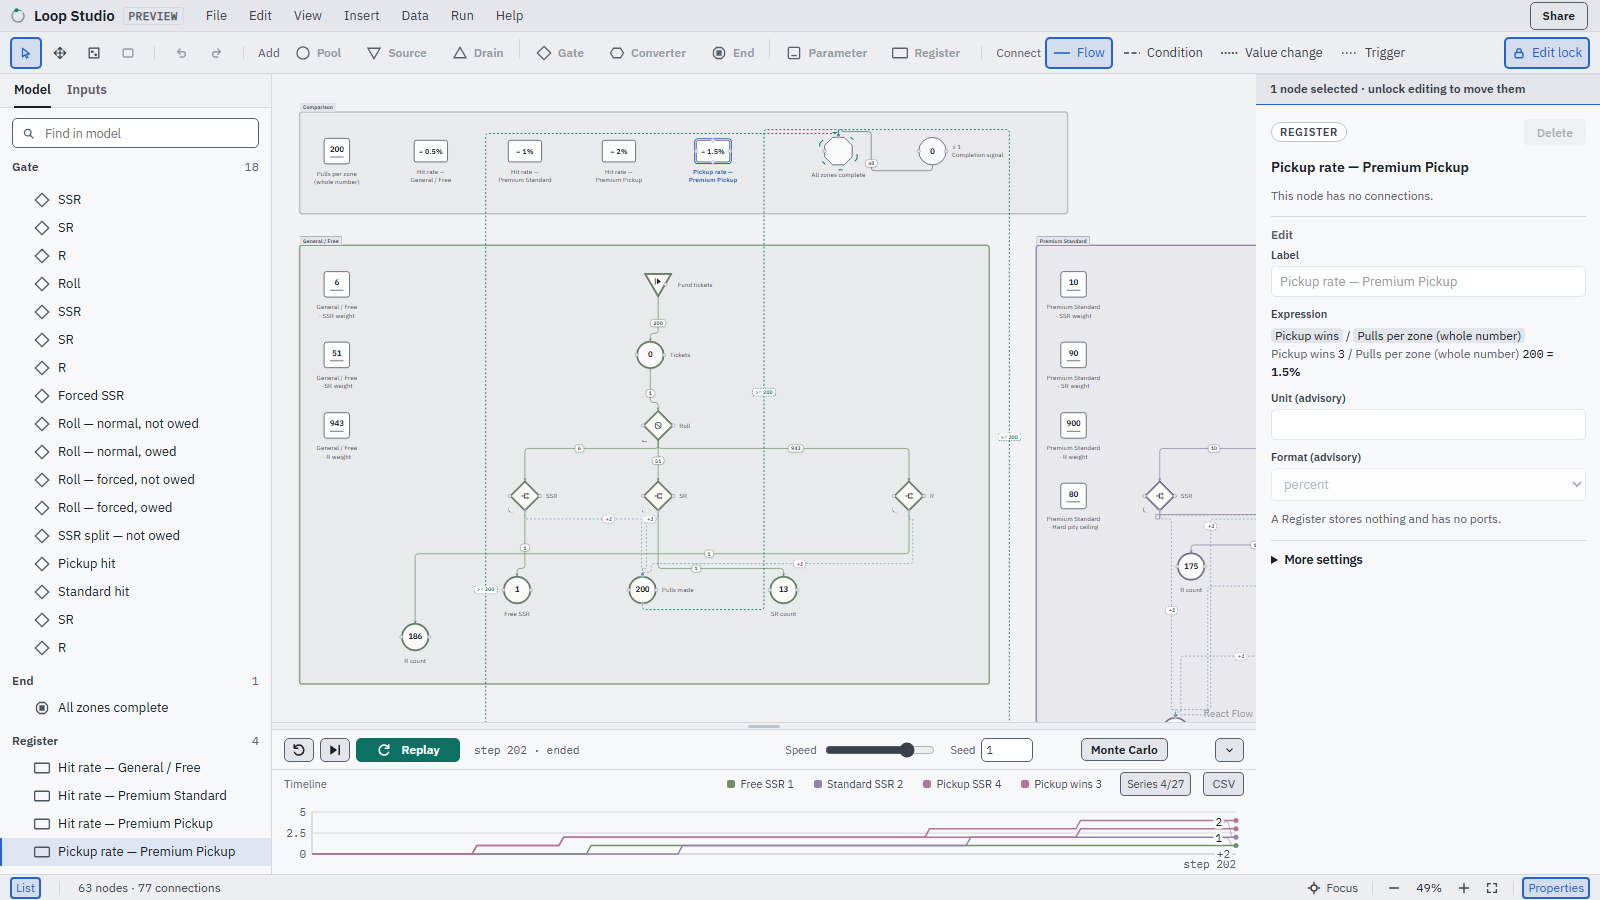
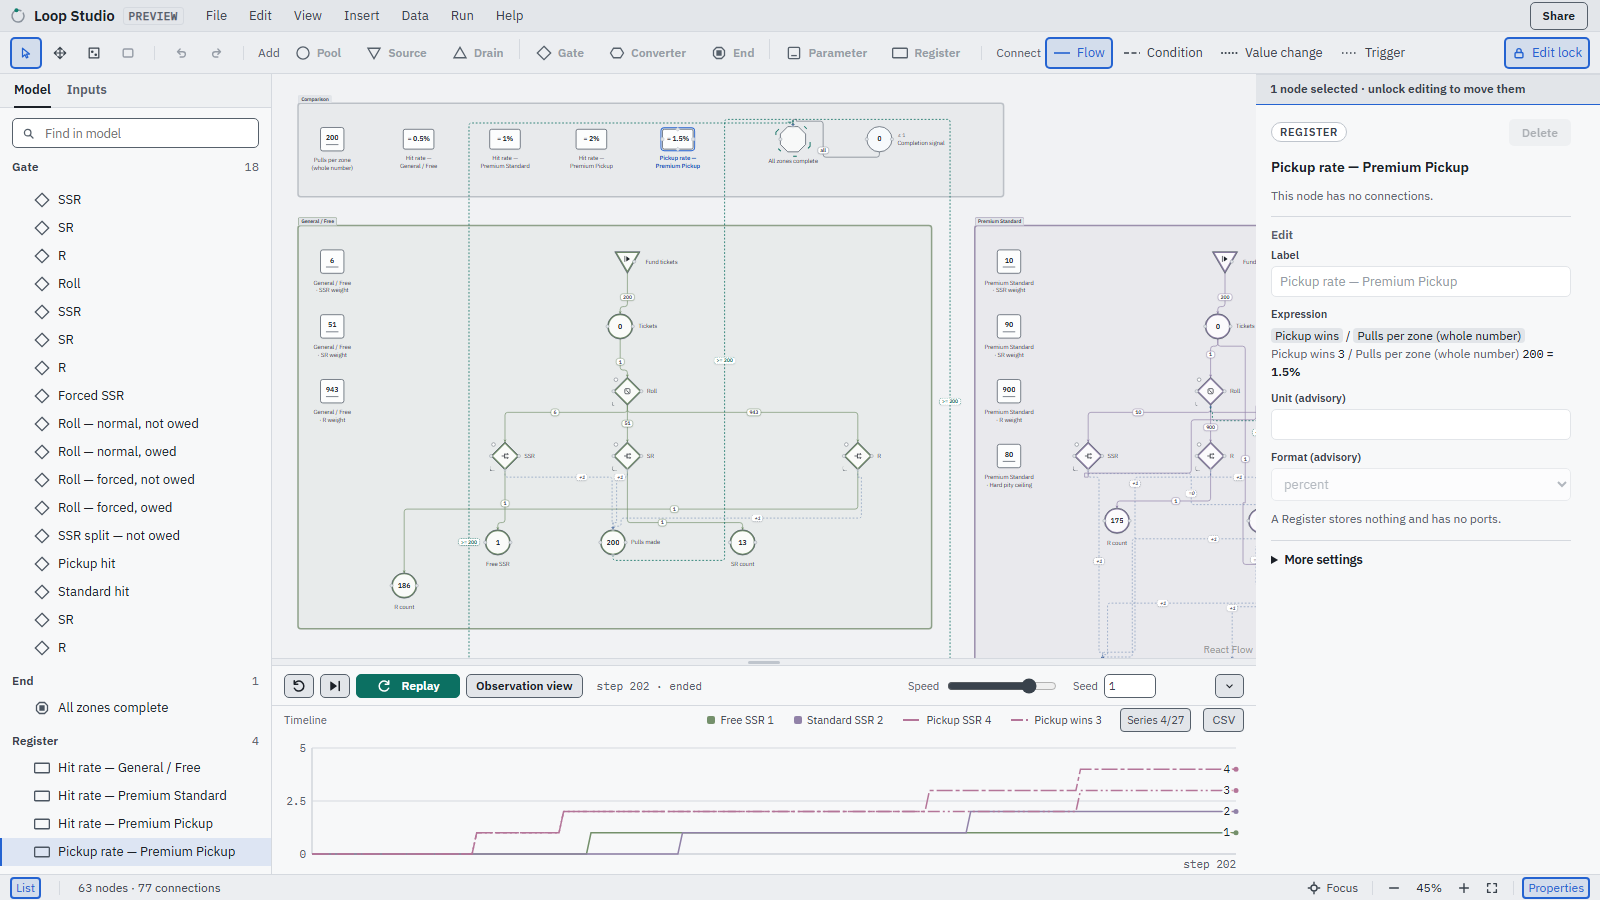
Release v0.32.0
Raises the app version to 0.32.0 and moves the Unreleased CHANGELOG lines into the v0.32.0 section, with a summary of the release. The README leads with v0.32.0, keeps v0.31.0, v0.30.1 and v0.30.0, and folds v0.29.0 into the CHANGELOG sentence; its key features name kinds, units, timetables and run rules. Its Template list now matches the menu: seven Templates, the desalination plant, the coffee roastery and, under Games, the MMO and the gacha examples, in place of eight with two small production flows that left the menu. The three README screenshots are retaken on a production build of this branch, so they show the Observation view button and the Timeline at its one height, and their descriptions say so.

diff --git a/README.md b/README.md
@@ -15,12 +15,12 @@ session neither reads nor saves stored work, author information or settings
 ([docs/storage-sessions.md](docs/storage-sessions.md)).
 
 **Run it now: <https://cozy-loop-studio.pages.dev>** — available in
-[18 languages](#languages), with eight bundled Templates ranging from two
-small production flows and a coffee roastery's daily operations to an early MMO's
-levelling economy and gacha banners: three single-banner rule sets and a
-three-zone probability/pity comparison.
+[18 languages](#languages), with seven bundled Templates: a seawater
+desalination plant from intake to the city and the sea, a coffee roastery's daily
+operations, and, under Games, an early MMO's levelling economy and gacha banners:
+three single-banner rule sets and a three-zone probability/pity comparison.
 
-![Loop Studio's workbench in a temporary session: the menu bar with its Temporary session button at the far end, the tool row, the list of every node on the left, and the Coffee roastery Template as node symbols with each name below, grouped into three labelled zone frames with its money in $/day, a few steps into a run with the Timeline filling in below](docs/assets/hero-coffee.png)
+![Loop Studio's workbench in a temporary session: the menu bar with its Temporary session button at the far end, the tool row, the list of every node on the left, and the Coffee roastery Template as node symbols with each name below, grouped into three labelled zone frames with its money in $/day, three steps into a run: the run row with Play and its Observation view button, and the Timeline filling in below](docs/assets/hero-coffee.png)
 
 ## Key features
 
@@ -28,6 +28,9 @@ three-zone probability/pity comparison.
   resources move between them on a deterministic, discrete-step simulation;
   select a region of nodes from the rail and move them together, or place nodes
   in a named frame that moves with its contents
+- **Kinds, units, timetables and run rules** — name a document's resource
+  kinds and their units, say how long a step is, keep a kind balanced, drive a
+  connection from a timetable, and run a stage by a rule, all made on screen
 - **Seeded RNG + Monte Carlo** — probabilistic gates and flows, and
   many-run outcome distributions with percentile bands
 - **A small model language** — `parameter` / `register` nodes with a safe
@@ -87,8 +90,8 @@ language's review status, and describes how the language is chosen.
 
 ## Representative use cases
 
-The bundled Templates come from different fields — a small production flow, a
-coffee roastery's daily operations, and a game's probability rules — because
+The bundled Templates come from different fields — a desalination plant's water
+balance, a coffee roastery's daily operations, and a game's probability rules — because
 the model is about flows and states, not about one genre. The one with the most
 moving parts is a game example:
 
@@ -99,14 +102,14 @@ per zone under identical run settings. Once a run completes, its hit and
 pickup rates are easy to compare; run Monte Carlo analysis to inspect the
 distribution across many runs.
 
-![The gacha Template after a completed 200-pull-per-zone run, its comparison row above the zone frames side by side below it: five comparison cards reading real hit-rate/pickup-rate percentages, a Timeline with per-zone SSR/pickup curves, and a Register's expression read-back open in the right panel](docs/assets/gacha-overview.png)
+![The gacha Template after a completed 200-pull-per-zone run, its comparison row above the zone frames side by side below it: five comparison cards reading real hit-rate/pickup-rate percentages, the run row at its end with Replay and the Observation view button, a Timeline with per-zone SSR/pickup curves, and a Register's expression read-back open in the right panel](docs/assets/gacha-overview.png)
 
 *Premium Pickup, framed on its own* — the hard-pity counter forces the next
 roll's SSR once it hits the ceiling; whether that (or any ordinary) SSR lands
 as pickup or standard depends on the `Pickup owed` guarantee flag, which a
 miss sets and the next SSR consumes.
 
-![The Premium Pickup zone alone after the same completed run, with the Timeline and the node list folded away: the hard-pity counter against its ceiling, the Pickup-owed guarantee flag, a real Pickup/Standard hit split, and a selected Pool open in the right panel with its current amount](docs/assets/gacha-pickup-guarantee.png)
+![The Premium Pickup zone alone after the same completed run, with the Timeline and the node list folded away and only the run row left under the canvas: the hard-pity counter against its ceiling, the Pickup-owed guarantee flag, a real Pickup/Standard hit split, and a selected Pool open in the right panel with its current amount](docs/assets/gacha-pickup-guarantee.png)
 
 ## Develop locally
 
@@ -147,7 +150,26 @@ Additional feature-specific design documents (localization, mobile, module
 system, large-graph readability, simulation playback, edge routing, data
 import, …) live under [`docs/`](docs/).
 
-## Latest — v0.31.0
+## Latest — v0.32.0
+
+Timetables, run rules and units, shown in a seawater desalination process example, and a
+Timeline built for reading a run.
+
+- **Timetables and run rules**: a connection can follow a rate that changes over time, as a
+  plan or as what a supply can give, and a stage can be run by a rule; both are made on screen,
+  and the Timeline draws each under the chart, with a word at each line's end
+- **Resource kinds with units**: a document can name its kinds and their units, say how long
+  one step is, and keep a kind balanced; the Inspector, the Timeline and downloads read in the
+  units you chose
+- **The seawater desalination process**: a facility example from intake to the city and the
+  sea, checked over 90 days, with chemical refills and a pause when the plant first stops
+- **A Timeline for reading a run**: one height whatever it holds, strips in a tab of their own,
+  a step preview under the pointer, and one meaning for each line pattern
+- **An observation view**: hides the side panels and the tool row while a run plays
+- **Node icons**, a state light on every Gate, and the game examples under Templates ▸ Games
+- **The run engine no longer loses resources** between Gates, Converters and capped Pools
+
+## v0.31.0
 
 Eighteen languages again, and a round of workbench clarity.
 
@@ -188,24 +210,9 @@ The menus and the canvas, tidied.
 - **Check marks beside their names** in the View menu and Edit ▸ Edit lock
 - **No minimap**: Reset view and Fit show the whole diagram; panning and zooming are unchanged
 
-## v0.29.0
-
-The workbench release: the desktop editing screen is redesigned as a workbench
-([`docs/workbench.md`](docs/workbench.md)).
-
-- **The workbench**: a menu bar, a tool row, a searchable list of every node on the left, the
-  properties panel on the right (what the selection does in the model first, then its fields),
-  the run controls and timeline under the canvas, and a status bar; the list and the panel fold
-  at narrower widths
-- **Nodes as symbols**: each kind of node is a small symbol with its number inside and its name
-  below; your documents keep their positions, names, formulas and line routes
-- **New colours, light and dark**, and names that stay when you zoom all the way out
-- **Structures in the File menu**: save a selected structure to a file and insert such a file
-  as one undo step; the Insert module menu is gone
-- **Languages at this release**: English and Korean only — the other sixteen returned in
-  v0.31.0
-
-See [`CHANGELOG.md`](CHANGELOG.md) for the full notes of these releases, v0.28.4 (starting
+See [`CHANGELOG.md`](CHANGELOG.md) for the full notes of these releases, v0.29.0 (the
+workbench: a menu bar, a tool row, the node list and the properties panel around the canvas,
+and nodes as symbols; [`docs/workbench.md`](docs/workbench.md)), v0.28.4 (starting
 and finishing a connection responds faster), v0.28.3 (Undo and Redo leave nothing selected),
 v0.28.2 (resource connections on two sides of one port branch on their own), v0.28.1 (a
 connection's label keeps off the bend points you placed on it), v0.28.0 (a

diff --git a/CHANGELOG.md b/CHANGELOG.md
@@ -7,6 +7,10 @@ a release yet is under **Unreleased** ([`docs/release-notes.md`](docs/release-no
 
 ## Unreleased
 
+## v0.32.0 — 2026-11-11
+
+Timetables, run rules and resource kinds with their own units, shown in a new seawater desalination process example; a Timeline that keeps one height, shows its strips in a tab of their own and gives each line pattern one meaning; an observation view for watching a run; node icons; the game examples grouped under Templates ▸ Games; and a run engine that no longer loses resources between Gates and Converters.
+
 - **Each Timeline line pattern means one thing.** A run strip's target and what an available timetable offers are now drawn as round dots, at the same width as the run, so they no longer look like a Register's dashes or a dashed series; a Register keeps its dashes, and a dashed series only ever means several tanks that share one colour. Each strip line also carries a word at its end, "target" and "ran" or "available" and "moved", in a space right of the plot that no line crosses, and the two words stay apart when the lines meet. The chart above keeps the same right edge, so a step stands at the same place in both. The strip names, their spoken names and Help say "dotted" in every language.
 - **The game examples have a group of their own.** File ▸ Templates lists the desalination and coffee roastery examples, then Games ›, which shows the MMO and the four gacha examples in their place, with a row back to the Templates; Escape or Arrow Left goes back too, and the next Escape closes the menu. The phone's Templates sheet does the same, and each example there is now a full-width row with its name on one line and its description under it, so a long name no longer breaks over several lines. Help ▸ Example notes lists the game examples under a Games heading. Opening an example is unchanged.
 - **Timeline tabs for documents with several strips.** When a document has two or more timetable or run-rule strips, the Timeline shows the pools' chart and the strips as two tabs, Pools and Timetables and run rules, in one area that keeps its height: one strip at a time, picked from a list. The area no longer grows for the strips, so the desalination example's Timeline opens 120 px lower and the canvas has that room; only the auto-play pause line and run notices add height. The pinned step, the CSV and the picked strip are kept across a switch, and the tabs work from the keyboard. The lowest value at the chart's right end no longer touches the step label under it.
